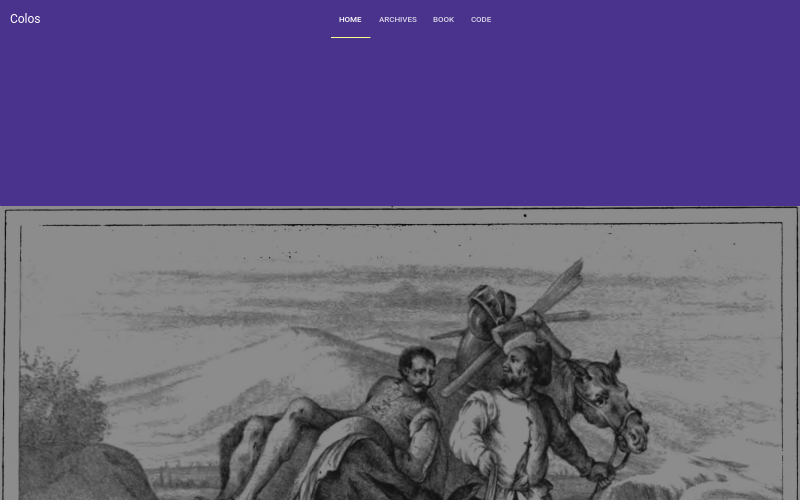
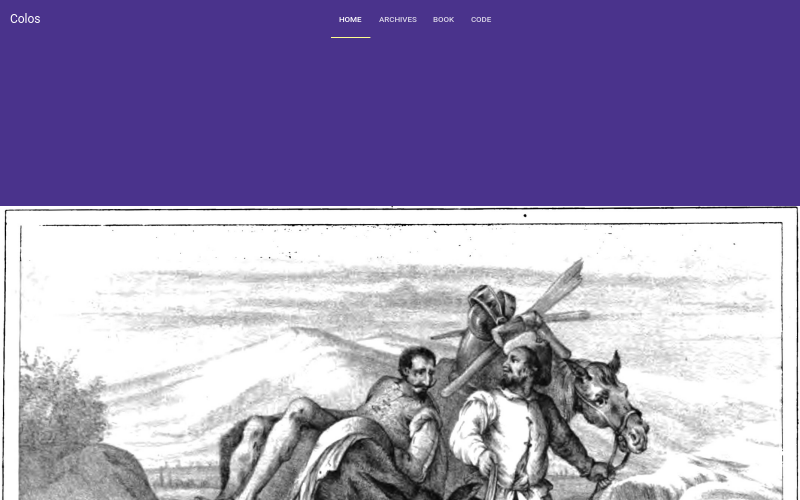
Don't darken paper-card image
Built from 43fad79ab895833b49386319cdfc15954bf1832e.

diff --git a/source/css/main.css b/source/css/main.css
@@ -3,4 +3,4 @@ http://meyerweb.com/eric/tools/css/reset/
 v2.0 | 20110126
 License: none (public domain)
 */a,abbr,acronym,address,applet,article,aside,audio,b,big,blockquote,body,canvas,caption,center,cite,code,dd,del,details,dfn,div,dl,dt,em,embed,fieldset,figcaption,figure,footer,form,h1,h2,h3,h4,h5,h6,header,hgroup,html,i,iframe,img,ins,kbd,label,legend,li,mark,menu,nav,object,ol,output,p,pre,q,ruby,s,samp,section,small,span,strike,strong,sub,summary,sup,table,tbody,td,tfoot,th,thead,time,tr,tt,u,ul,var,video{margin:0;padding:0;border:0;font-size:100%;font:inherit;vertical-align:baseline}
-/* HTML5 display-role reset for older browsers */article,aside,details,figcaption,figure,footer,header,hgroup,menu,nav,section{display:block}body{line-height:1}ol,ul{list-style:none}blockquote,q{quotes:none}blockquote:after,blockquote:before,q:after,q:before{content:"";content:none}table{border-collapse:collapse;border-spacing:0}h1,h2,h3,h4,h5,h6{color:rgba(0,0,0,.9)}body{font-family:Roboto,sans-serif}.post-content{color:#212121;line-height:1.6;font-size:1.25em;font-weight:300}.post-content p{margin-bottom:1em}h1{font-size:2.2em}h2{font-size:2em}h3{font-size:1.8em}h4{font-size:1.6em}h5{font-size:1.4em}h6{font-size:1.2em}app-toolbar a:active,app-toolbar a:focus,app-toolbar a:hover{color:#d1c4e9}a{color:#7c4dff;text-decoration:none}a:active,a:focus,a:hover{color:#4527a0}.archives-wrap .archive-year{text-decoration:none;color:#212121}.archives-wrap .archive-year:active,.archives-wrap .archive-year:focus,.archives-wrap .archive-year:hover{color:#757575}paper-card h1{font-size:1.6em;padding-top:.2em}paper-card h1 a{color:#212121}.highlight,pre{font-family:Roboto Mono,monospace;font-size:.83em;line-height:1.2em}.highlight .line,pre .line{height:1.2em}app-drawer-layout>#contentContainer:not(.narrow){margin-left:0!important}app-drawer-layout>#contentContainer:not(.narrow)+app-drawer{visibility:hidden!important}app-drawer-layout>.narrow paper-tabs{display:none!important}app-header{color:#fff;background-color:#7c4dff}app-header #backgroundFrontLayer{background-position:50%}app-header #backgroundFrontLayer:before{content:"";display:block;position:absolute;top:0;bottom:0;left:0;right:0;background:rgba(25,25,25,.5)}app-toolbar.middle{height:10em}app-toolbar.bottom{height:4em}app-toolbar a{color:#fff;text-decoration:none}app-toolbar [main-title]{position:absolute;margin-left:2em;font-size:1.6em;font-weight:300}app-toolbar [condensed-title]{max-width:0}app-toolbar paper-tabs{height:100%!important}app-toolbar paper-tabs paper-tab{text-transform:uppercase}app-toolbar paper-tabs paper-tab[link] a{padding:0 1em}.page-content .wrapper .narrow-element,.page-content .wrapper h1,.page-content .wrapper h2,.page-content .wrapper h3,.page-content .wrapper h4,.page-content .wrapper h5,.page-content .wrapper h6,.page-content .wrapper header,.page-content .wrapper p,.page-content .wrapper table{max-width:960px;width:100%;margin:0 auto}.page-content .wrapper .narrow-element.extra,.page-content .wrapper h1.extra,.page-content .wrapper h2.extra,.page-content .wrapper h3.extra,.page-content .wrapper h4.extra,.page-content .wrapper h5.extra,.page-content .wrapper h6.extra,.page-content .wrapper header.extra,.page-content .wrapper p.extra,.page-content .wrapper table.extra{max-width:1100px}.highlight{padding:.4em 0}.highlight .gutter{width:1.3em;text-align:right}.highlight .code{padding-left:1.4em}.archives-wrap{padding:6em 0}.archives-wrap:nth-child(3n+0){background-color:#ede7f6}.archives-wrap:nth-child(3n+2){background-color:#d1c4e9}.archives-wrap h1{text-align:center;padding-bottom:.8em}colos-grid .post{padding:.7em}paper-card{width:100%}paper-card h1{text-align:left!important}paper-card iron-image:before{content:"";display:block;position:absolute;top:0;bottom:0;left:0;right:0;background:rgba(25,25,25,.5)}.highlight{background:#fafafa;border:solid #e0e0e0;border-width:1px 0}.highlight,pre{color:#212121}.highlight .string,pre .string{color:#f9a825}.highlight .comment,pre .comment{color:#727272}.highlight .keyword,pre .keyword{color:#ad1457}.highlight .built_in,pre .built_in{color:#00838f}.highlight .number,.literal,pre .number{color:#4527a0}.highlight.bash .meta,.highlight.bash .shebang,pre.bash .meta,pre.bash .shebang{color:#727272}.highlight.bash .variable,pre.bash .variable{color:#b6b6b6}.highlight.bash .title,pre.bash .title{color:#558b2f}.gutter pre{color:#757575}
+/* HTML5 display-role reset for older browsers */article,aside,details,figcaption,figure,footer,header,hgroup,menu,nav,section{display:block}body{line-height:1}ol,ul{list-style:none}blockquote,q{quotes:none}blockquote:after,blockquote:before,q:after,q:before{content:"";content:none}table{border-collapse:collapse;border-spacing:0}h1,h2,h3,h4,h5,h6{color:rgba(0,0,0,.9)}body{font-family:Roboto,sans-serif}.post-content{color:#212121;line-height:1.6;font-size:1.25em;font-weight:300}.post-content p{margin-bottom:1em}h1{font-size:2.2em}h2{font-size:2em}h3{font-size:1.8em}h4{font-size:1.6em}h5{font-size:1.4em}h6{font-size:1.2em}app-toolbar a:active,app-toolbar a:focus,app-toolbar a:hover{color:#d1c4e9}a{color:#7c4dff;text-decoration:none}a:active,a:focus,a:hover{color:#4527a0}.archives-wrap .archive-year{text-decoration:none;color:#212121}.archives-wrap .archive-year:active,.archives-wrap .archive-year:focus,.archives-wrap .archive-year:hover{color:#757575}paper-card h1{font-size:1.6em;padding-top:.2em}paper-card h1 a{color:#212121}.highlight,pre{font-family:Roboto Mono,monospace;font-size:.83em;line-height:1.2em}.highlight .line,pre .line{height:1.2em}app-drawer-layout>#contentContainer:not(.narrow){margin-left:0!important}app-drawer-layout>#contentContainer:not(.narrow)+app-drawer{visibility:hidden!important}app-drawer-layout>.narrow paper-tabs{display:none!important}app-header{color:#fff;background-color:#7c4dff}app-header #backgroundFrontLayer{background-position:50%}app-header #backgroundFrontLayer:before{content:"";display:block;position:absolute;top:0;bottom:0;left:0;right:0;background:rgba(25,25,25,.5)}app-toolbar.middle{height:10em}app-toolbar.bottom{height:4em}app-toolbar a{color:#fff;text-decoration:none}app-toolbar [main-title]{position:absolute;margin-left:2em;font-size:1.6em;font-weight:300}app-toolbar [condensed-title]{max-width:0}app-toolbar paper-tabs{height:100%!important}app-toolbar paper-tabs paper-tab{text-transform:uppercase}app-toolbar paper-tabs paper-tab[link] a{padding:0 1em}.page-content .wrapper .narrow-element,.page-content .wrapper h1,.page-content .wrapper h2,.page-content .wrapper h3,.page-content .wrapper h4,.page-content .wrapper h5,.page-content .wrapper h6,.page-content .wrapper header,.page-content .wrapper p,.page-content .wrapper table{max-width:960px;width:100%;margin:0 auto}.page-content .wrapper .narrow-element.extra,.page-content .wrapper h1.extra,.page-content .wrapper h2.extra,.page-content .wrapper h3.extra,.page-content .wrapper h4.extra,.page-content .wrapper h5.extra,.page-content .wrapper h6.extra,.page-content .wrapper header.extra,.page-content .wrapper p.extra,.page-content .wrapper table.extra{max-width:1100px}.highlight{padding:.4em 0}.highlight .gutter{width:1.3em;text-align:right}.highlight .code{padding-left:1.4em}.archives-wrap{padding:6em 0}.archives-wrap:nth-child(3n+0){background-color:#ede7f6}.archives-wrap:nth-child(3n+2){background-color:#d1c4e9}.archives-wrap h1{text-align:center;padding-bottom:.8em}colos-grid .post{padding:.7em}paper-card{width:100%}paper-card h1{text-align:left!important}.highlight{background:#fafafa;border:solid #e0e0e0;border-width:1px 0}.highlight,pre{color:#212121}.highlight .string,pre .string{color:#f9a825}.highlight .comment,pre .comment{color:#727272}.highlight .keyword,pre .keyword{color:#ad1457}.highlight .built_in,pre .built_in{color:#00838f}.highlight .number,.literal,pre .number{color:#4527a0}.highlight.bash .meta,.highlight.bash .shebang,pre.bash .meta,pre.bash .shebang{color:#727272}.highlight.bash .variable,pre.bash .variable{color:#b6b6b6}.highlight.bash .title,pre.bash .title{color:#558b2f}.gutter pre{color:#757575}
